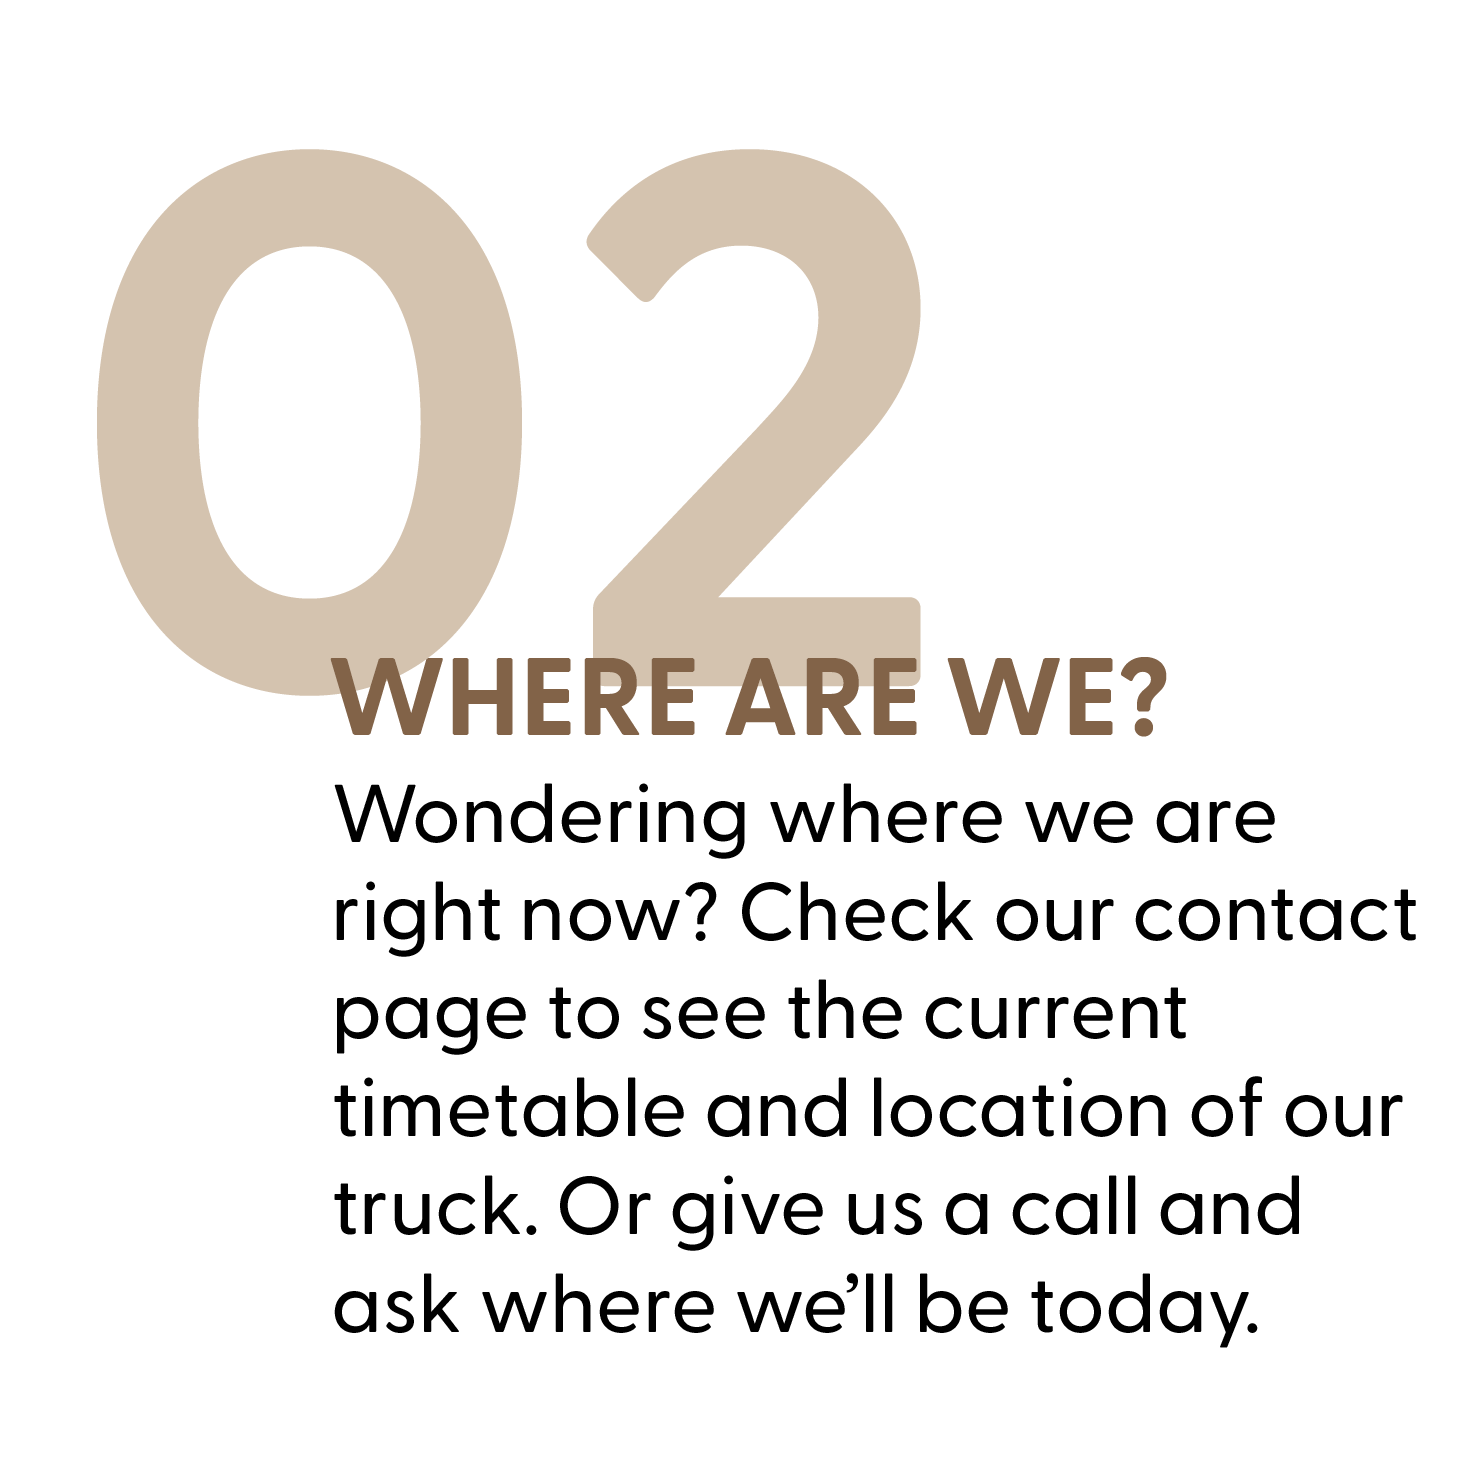
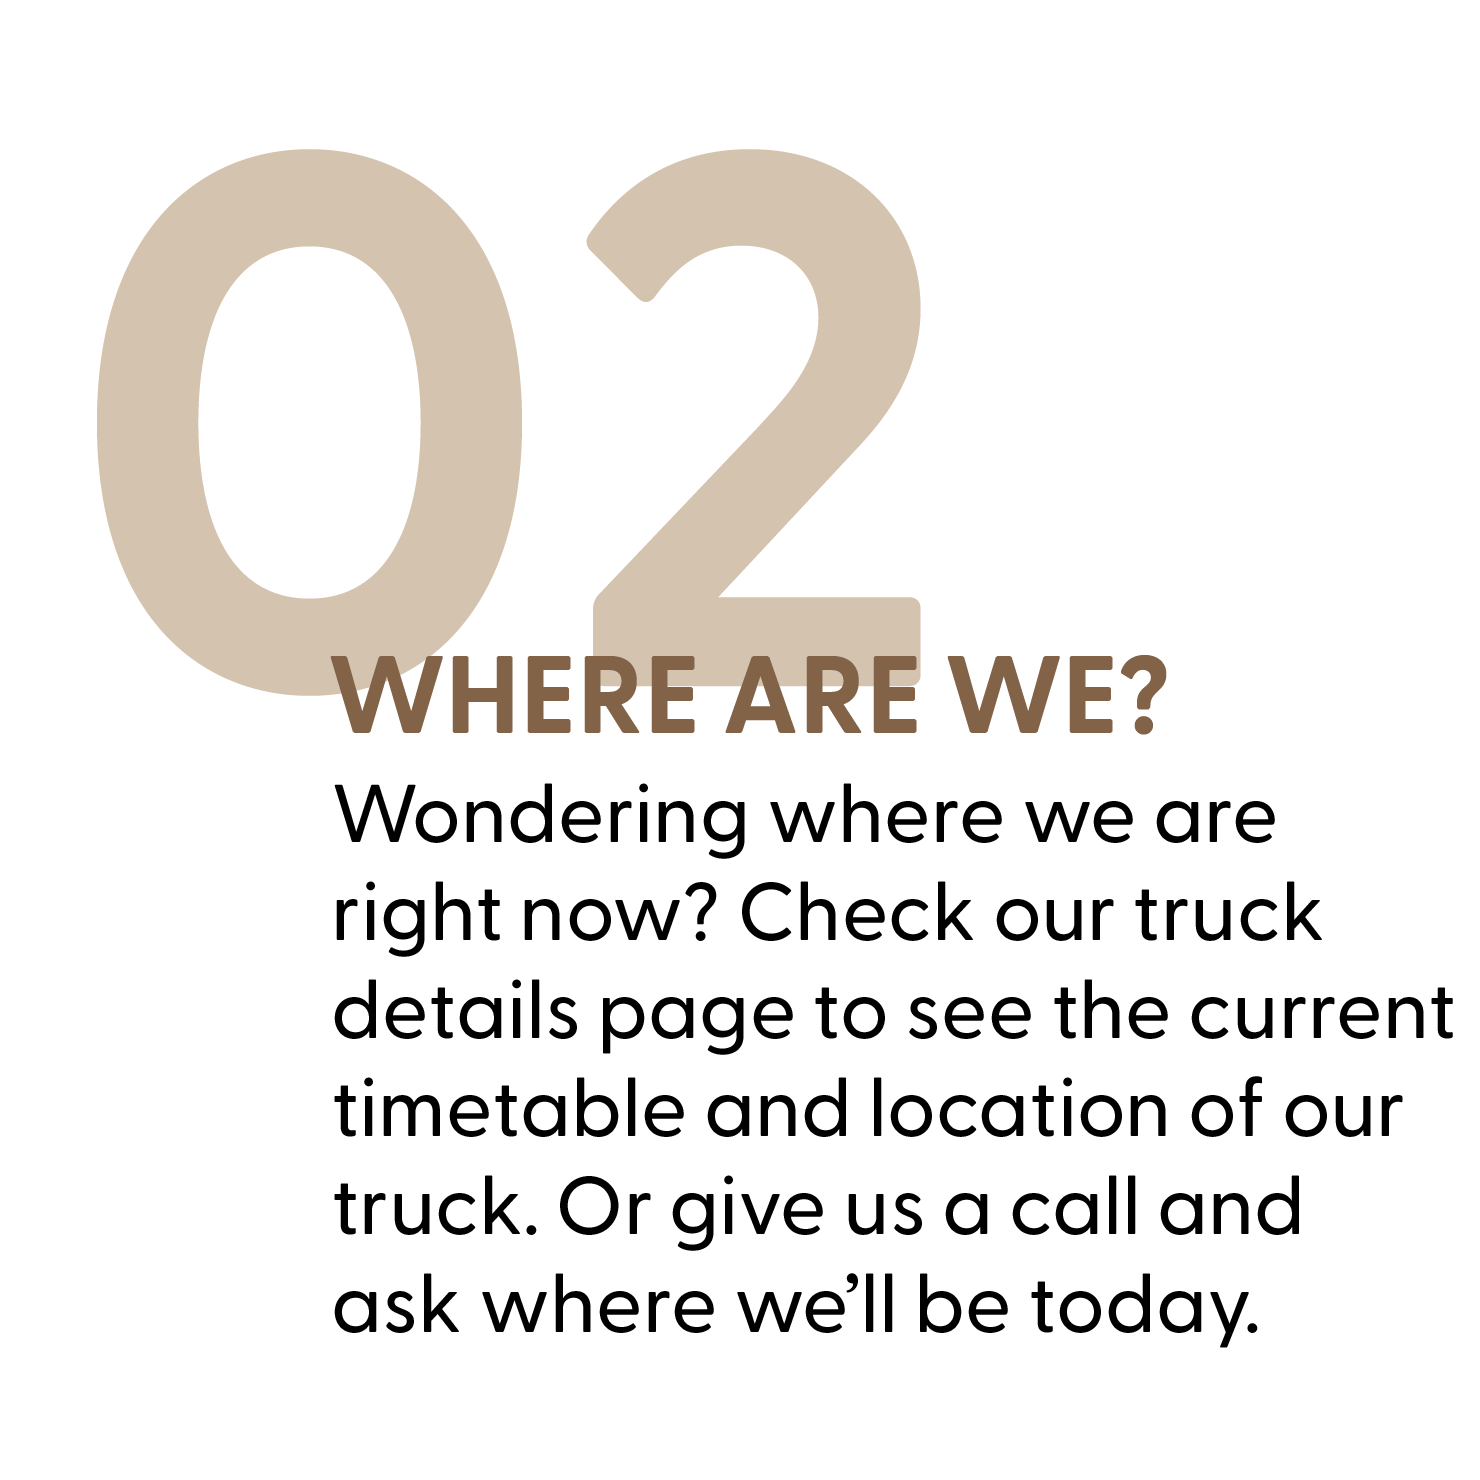
overall changes

diff --git a/menu/menu.html b/menu/menu.html
@@ -7,7 +7,8 @@
     <meta name="description" content="">
     <meta name="author" content="Mark Otto, Jacob Thornton, and Bootstrap contributors">
     <meta name="generator" content="Hugo 0.111.3">
-    <title>Shop</title>
+    <title>Our Menu | Beans & Zines</title>
+    <link rel="icon" type="image/x-icon" href="../images/Beans and Zines logos.png">
 
     <link rel="canonical" href="https://getbootstrap.com/docs/5.3/examples/product/">
     <link rel="stylesheet" href="https://use.typekit.net/wih2pzb.css">
@@ -103,7 +104,7 @@
             <a class="nav-link active" aria-current="page" href="menu.html">Menu</a>
           </li>
           <li class="nav-item">
-            <a class="nav-link" href="../about.html">About</a>
+            <a class="nav-link" href="../about.html">Truck Details</a>
           </li>
           <li class="nav-item">
             <a class="nav-link" href="../contact.html">Contact</a>

diff --git a/about.html b/about.html
@@ -20,7 +20,8 @@
         }
     </style>
 
-    <title>Beans & Zines</title>
+    <title>Truck Details | Beans & Zines</title>
+    <link rel="icon" type="image/x-icon" href="images/Beans and Zines logos.png">
 
 </head>
 <body>
@@ -44,7 +45,7 @@
                     <a class="nav-link" href="menu/menu.html">Menu</a>
                   </li>
                   <li class="nav-item">
-                    <a class="nav-link active" aria-current="page" href="about.html">About</a>
+                    <a class="nav-link active" aria-current="page" href="about.html">Truck Details</a>
                   </li>
                   <li class="nav-item">
                     <a class="nav-link" href="contact.html">Contact</a>

diff --git a/contact.html b/contact.html
@@ -20,7 +20,8 @@
         }
     </style>
 
-    <title>Beans & Zines</title>
+    <title>Contact | Beans & Zines</title>
+    <link rel="icon" type="image/x-icon" href="images/Beans and Zines logos.png">
 
 </head>
 <body>
@@ -44,7 +45,7 @@
                     <a class="nav-link" href="menu/menu.html">Menu</a>
                   </li>
                   <li class="nav-item">
-                    <a class="nav-link" href="about.html">About</a>
+                    <a class="nav-link" href="about.html">Truck Details</a>
                   </li>
                   <li class="nav-item">
                     <a class="nav-link active" aria-current="page" href="contact.html">Contact</a>

diff --git a/home.html b/home.html
@@ -20,7 +20,8 @@
         }
     </style>
 
-    <title>Beans & Zines</title>
+    <title>Home | Beans & Zines</title>
+    <link rel="icon" type="image/x-icon" href="images/Beans and Zines logos.png">
 
 </head>
 <body>
@@ -42,7 +43,7 @@
                     <a class="nav-link" href="menu/menu.html">Menu</a>
                   </li>
                   <li class="nav-item">
-                    <a class="nav-link" href="about.html">About</a>
+                    <a class="nav-link" href="about.html">Truck Details</a>
                   </li>
                   <li class="nav-item">
                     <a class="nav-link" href="contact.html">Contact</a>
